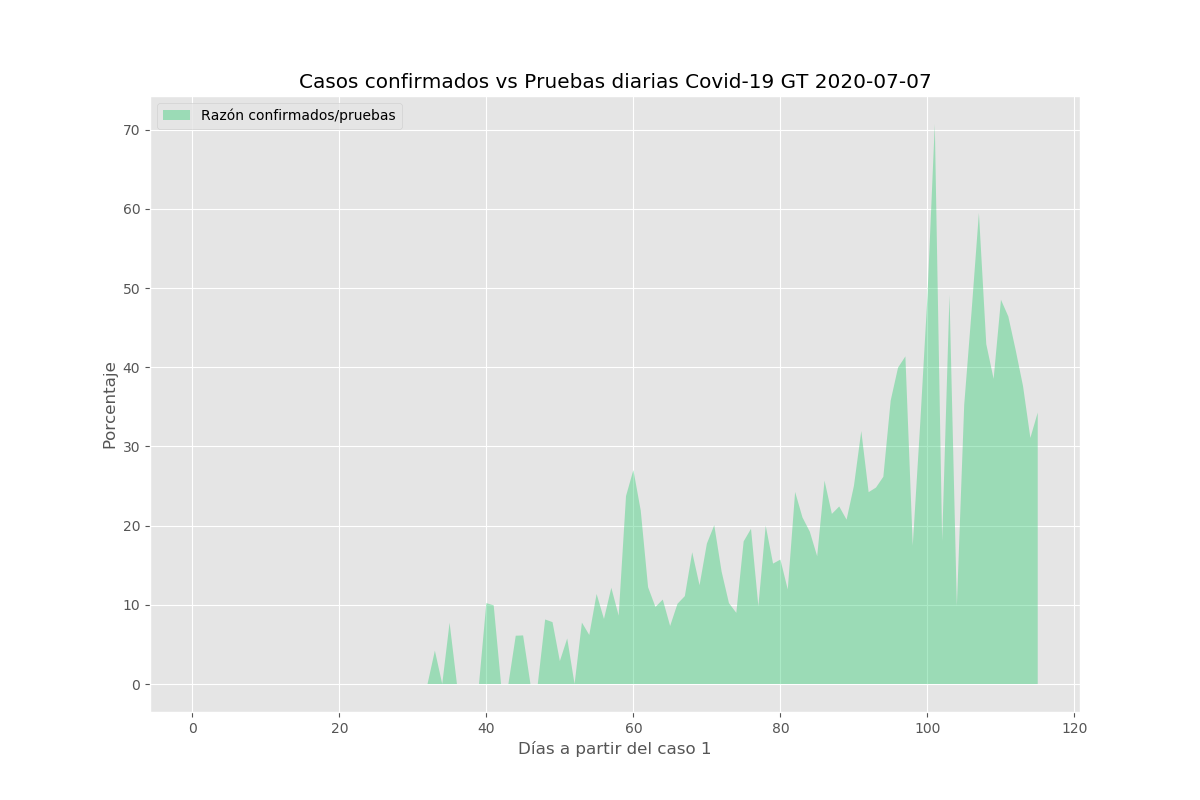
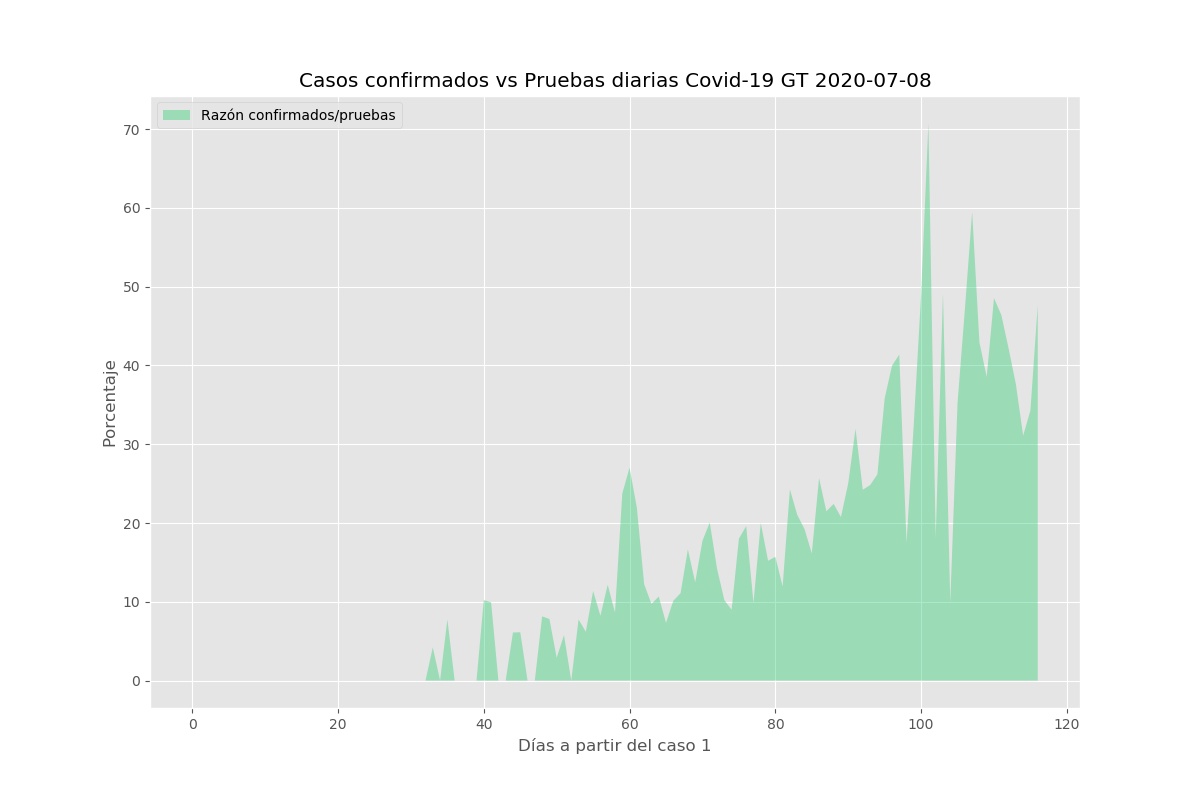
Actualizacion 8julio2020

diff --git a/_posts/2020-06-26-Estadisticos_Graficos.md b/_posts/2020-06-26-Estadisticos_Graficos.md
@@ -12,15 +12,15 @@ Estas gráficas son generadas a partir de los datos en [nuestro repositorio](htt
 
 # Estadísticos Relevantes, actualizados 06 junio 2020:
 
-confirmados:  25411
+confirmados:  26658
 
-recuperados:  3718
+recuperados:  3797
 
-fallecidos:  1053
+fallecidos:  1092
 
-activos:  20638
+activos:  21767
 
-pruebas realizadas:  100307
+pruebas realizadas:  103048
 
 # Gráficas
 
